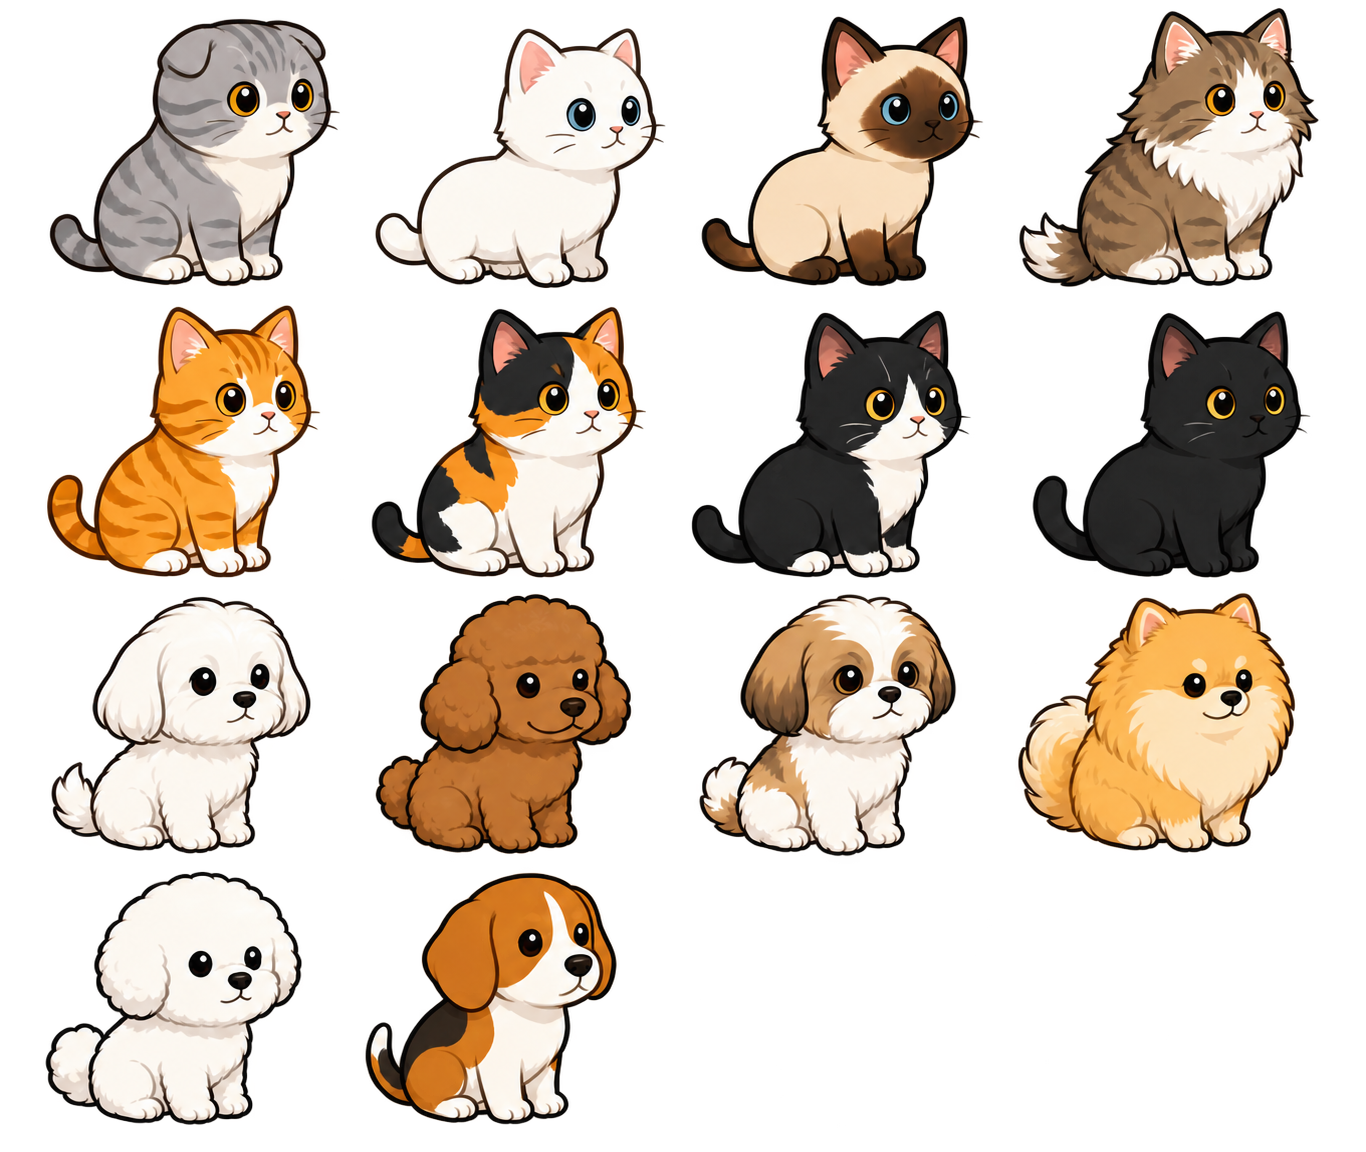
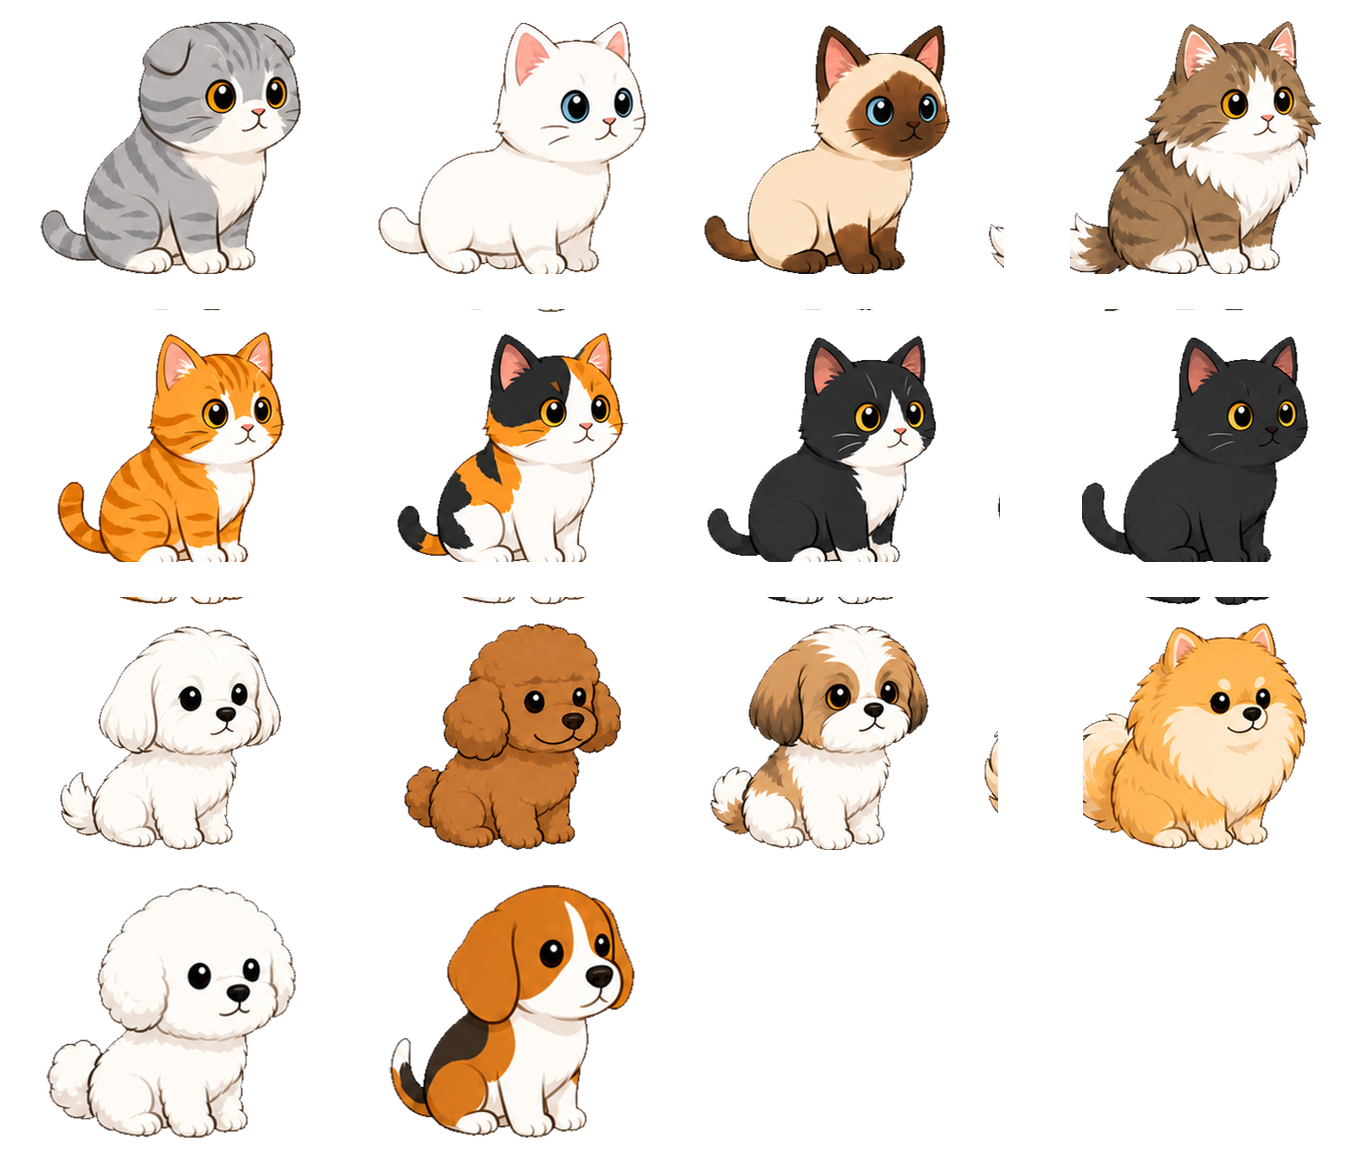
Redraw character and box artwork consistently

diff --git a/app.js b/app.js
@@ -200,7 +200,6 @@ const CHARACTER_FRAME_ARTWORK = {
   bad: {},
 };
 const BOX_PAW_FRAME_ARTWORK = {};
-const DARK_FUR_CHARACTER_IDS = new Set(["black", "tuxedo", "calico"]);
 const SHOP_PREVIEW_ARTWORK_CACHE = new Map();
 
 Object.values(ART_ASSETS).forEach((image) => {
@@ -3093,15 +3092,7 @@ function addCharacterOutline(imageData, radius = 4) {
   }
 }
 
-function createCharacterFrameArtwork(
-  source,
-  item,
-  columns,
-  rows,
-  removeDarkBackground,
-  darkThreshold,
-  edgeErosionPasses = 0,
-) {
+function createCharacterFrameArtwork(source, item, columns, rows) {
   if (!isArtworkReady(source)) {
     return null;
   }
@@ -3117,23 +3108,6 @@ function createCharacterFrameArtwork(
   frame.height = sourceBottom - sourceY;
   const frameContext = frame.getContext("2d", { willReadFrequently: true });
   frameContext.drawImage(source, sourceX, sourceY, frame.width, frame.height, 0, 0, frame.width, frame.height);
-  const imageData = frameContext.getImageData(0, 0, frame.width, frame.height);
-
-  if (removeDarkBackground) {
-    removeConnectedDarkBackground(imageData, darkThreshold);
-  }
-
-  getOpaqueArtworkBounds(imageData);
-  const totalEdgePasses = removeDarkBackground ? 1 : edgeErosionPasses;
-  for (let pass = 0; pass < totalEdgePasses; pass += 1) {
-    refineOpaqueEdge(imageData);
-    getOpaqueArtworkBounds(imageData);
-  }
-  if (removeDarkBackground) {
-    addCharacterOutline(imageData);
-  }
-  frameContext.clearRect(0, 0, frame.width, frame.height);
-  frameContext.putImageData(imageData, 0, 0);
   return frame;
 }
 
@@ -3141,23 +3115,19 @@ function prepareCharacterFrameArtwork() {
   Object.entries(SHOP_CATALOG.character).forEach(([characterId, character]) => {
     const atlasId = character.atlas === "extra" ? "extra" : "main";
     const atlas = CHARACTER_ATLASES[atlasId];
-    const darkThreshold = DARK_FUR_CHARACTER_IDS.has(characterId) ? 24 : 72;
     const frames = [
-      ["neutral", atlas.neutral, false, 3],
-      ["good", atlas.happy, atlasId === "main", 0],
-      ["bad", atlas.hurt, atlasId === "main", 0],
+      ["neutral", atlas.neutral],
+      ["good", atlas.happy],
+      ["bad", atlas.hurt],
     ];
 
-    frames.forEach(([state, source, removeDarkBackground, edgeErosionPasses]) => {
+    frames.forEach(([state, source]) => {
       if (!CHARACTER_FRAME_ARTWORK[state][characterId] && isArtworkReady(source)) {
         CHARACTER_FRAME_ARTWORK[state][characterId] = createCharacterFrameArtwork(
           source,
           character,
           atlas.columns,
           atlas.rows,
-          removeDarkBackground,
-          darkThreshold,
-          edgeErosionPasses,
         );
       }
     });
@@ -4260,9 +4230,6 @@ function drawBoxPawArtwork(width, height) {
       character,
       atlas.columns,
       atlas.rows,
-      false,
-      24,
-      4,
     );
   }
   const boxArtwork = BOX_PAW_FRAME_ARTWORK[characterId];

diff --git a/server/share-service.js b/server/share-service.js
@@ -12,7 +12,7 @@ const {
 const SHARE_ORIGIN = "https://catnyam.vercel.app";
 const LEGACY_SHARE_TOKEN_VERSION = 1;
 const SHORT_SHARE_TOKEN_VERSION = 2;
-const SHARE_IMAGE_REVISION = 5;
+const SHARE_IMAGE_REVISION = 6;
 const MAX_SHARE_TOKEN_LENGTH = 4096;
 const MAX_SCORE = 500000;
 
@@ -651,13 +651,7 @@ async function createShareImage(payload) {
     .png()
     .toBuffer();
   const characterHappyBuffer = await characterHappyCell.png().toBuffer();
-  const darkEdgeThreshold = ["black", "tuxedo", "calico"].includes(payload.character) ? 24 : 72;
-  const maskedCharacterBuffer = await removeConnectedDarkBackground(
-    characterHappyBuffer,
-    characterItem.atlas !== "extra",
-    darkEdgeThreshold,
-  );
-  const characterBuffer = await sharp(maskedCharacterBuffer)
+  const characterBuffer = await sharp(characterHappyBuffer)
     .trim()
     .resize(410, 350, { fit: "inside", withoutEnlargement: false })
     .png()
